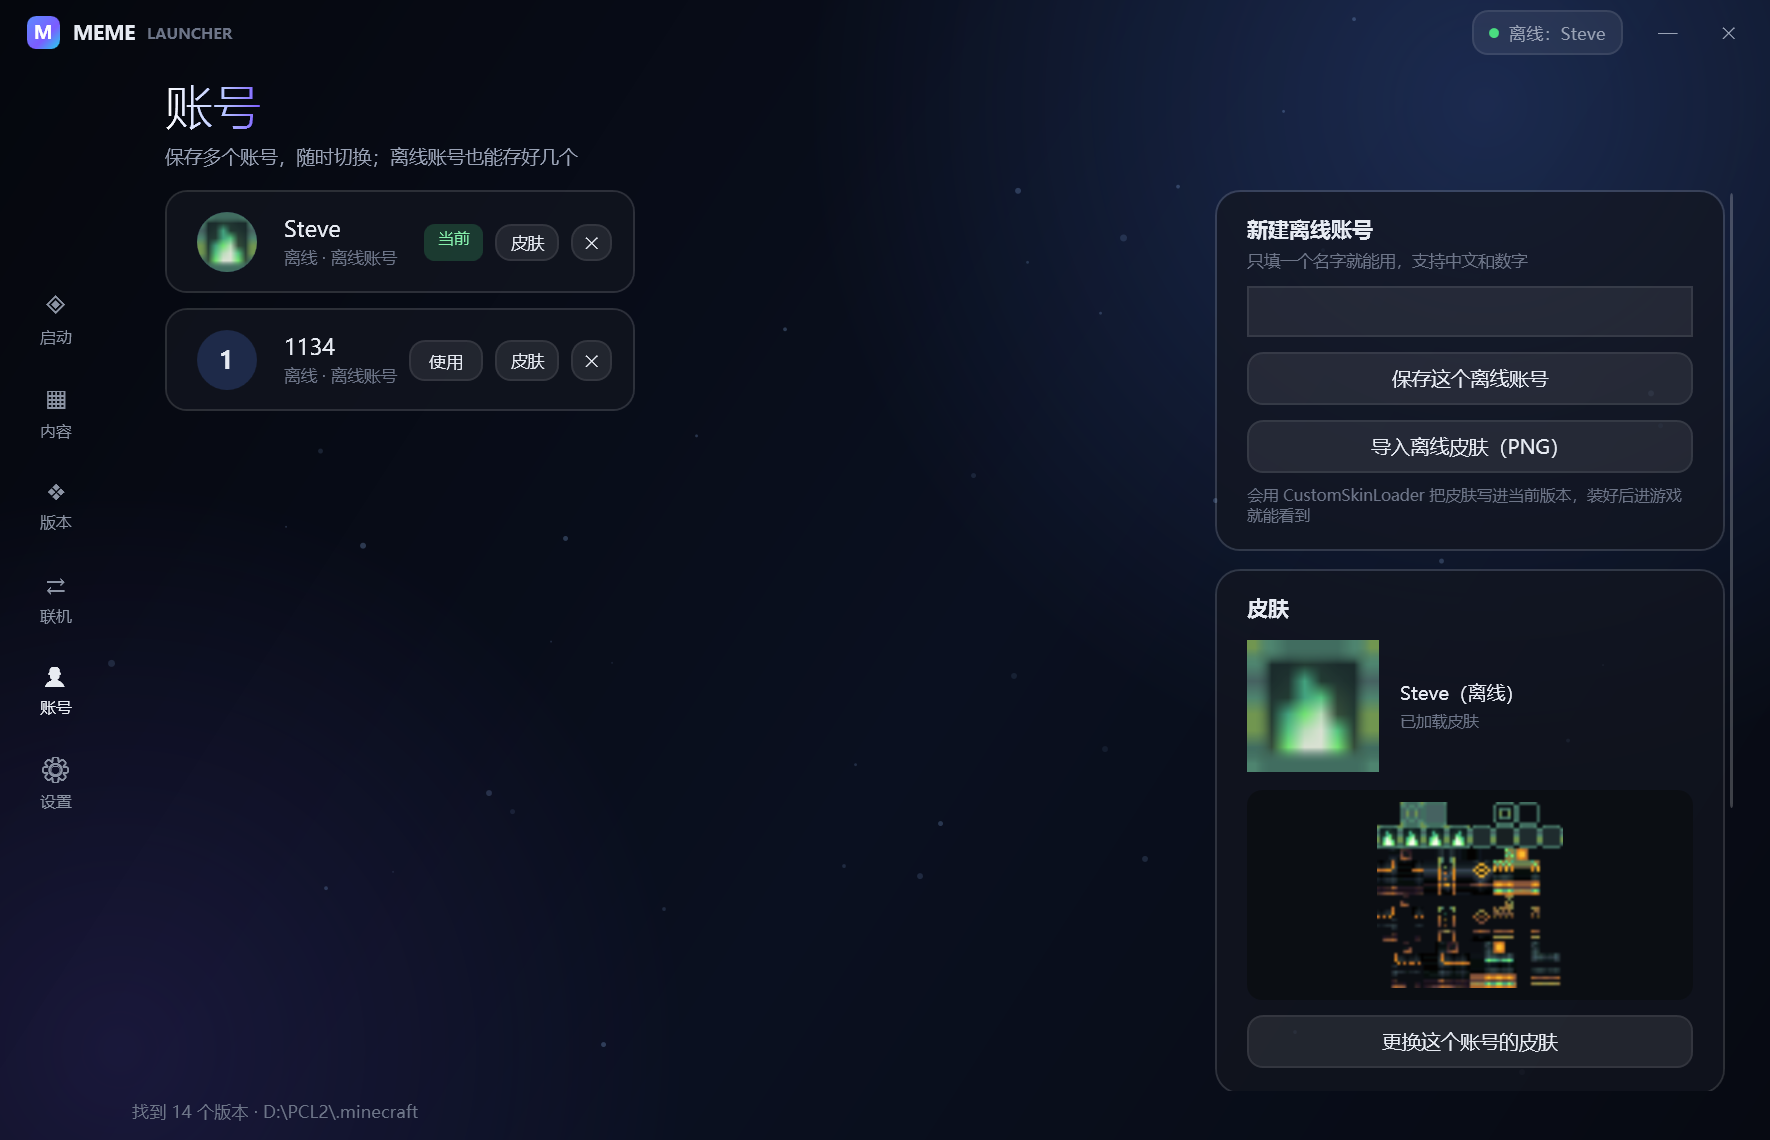
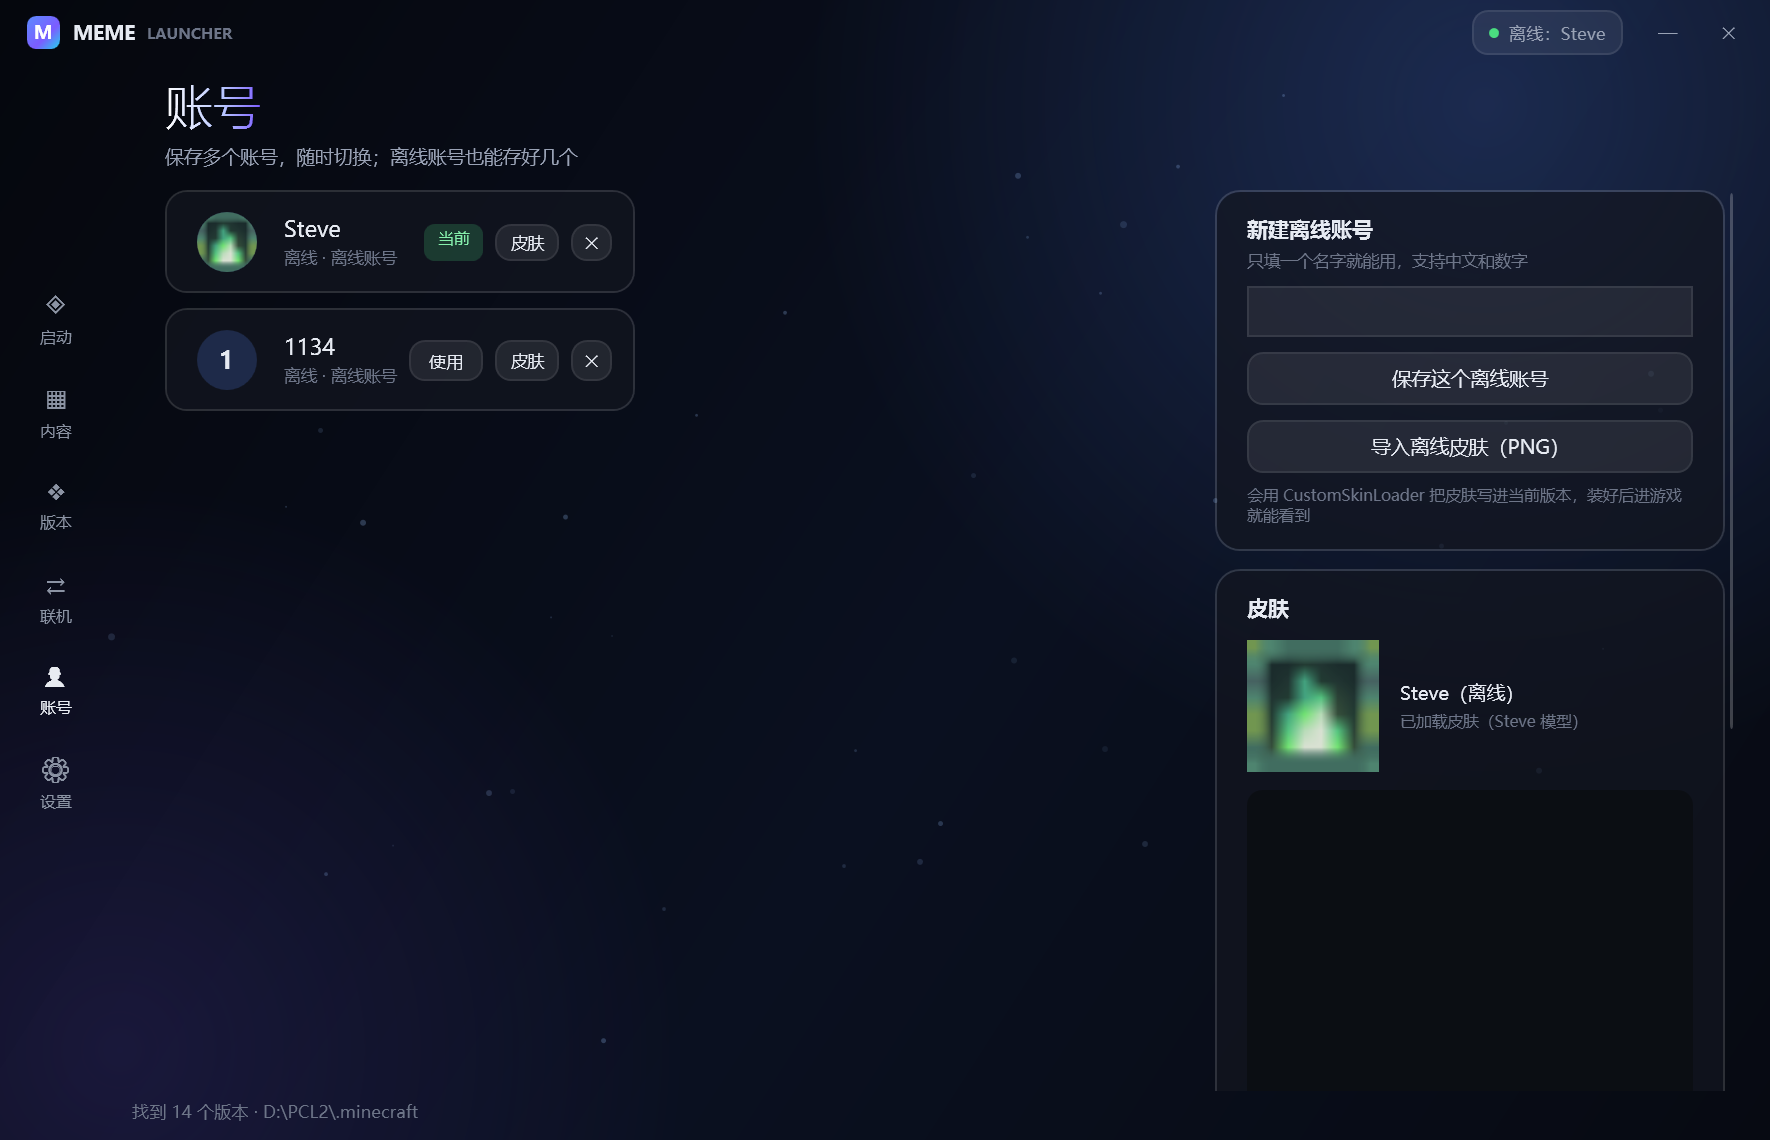
chore: 皮肤预览恢复平面图（3D 待修）；每个账号可单独换皮肤；安装进度进下载管理

Changed region(s): [[0.6836, 0.7061, 0.9633, 0.9518], [0.839, 0.614, 0.9011, 0.6447]]

diff --git a/src/Aurora.App/MainWindow.xaml b/src/Aurora.App/MainWindow.xaml
@@ -1280,9 +1280,15 @@
                                                            TextWrapping="Wrap"/>
                                             </StackPanel>
                                         </Grid>
-                                        <Border CornerRadius="10" Background="#0B0E13" Padding="8" Margin="0,12,0,0" Height="140">
+                                        <Border CornerRadius="10" Background="#0B0E13" Padding="8" Margin="0,12,0,0" Height="200">
                                             <Image x:Name="AccountSkinImage" Stretch="Uniform"/>
                                         </Border>
+                                        <StackPanel Orientation="Horizontal" Margin="0,10,0,0">
+                                            <Button Content="Steve（粗胳膊）" Visibility="Collapsed" Style="{StaticResource GlassButton}"
+                                                    Padding="12,5" FontSize="11" Tag="false" Click="OnSkinModelToggled"/>
+                                            <Button Content="Alex（细胳膊）" Visibility="Collapsed" Style="{StaticResource GlassButton}"
+                                                    Padding="12,5" FontSize="11" Margin="8,0,0,0" Tag="true" Click="OnSkinModelToggled"/>
+                                        </StackPanel>
                                         <Button Content="更换这个账号的皮肤" Style="{StaticResource GlassButton}" Margin="0,10,0,0"
                                                 Click="OnChangeSkinForCurrent"/>
                                     </StackPanel>

diff --git a/src/Aurora.App/SkinModel3D.cs b/src/Aurora.App/SkinModel3D.cs
@@ -1,0 +1,179 @@
+using System.Windows;
+using System.Windows.Media;
+using System.Windows.Media.Imaging;
+using System.Windows.Media.Media3D;
+
+namespace Aurora.App;
+
+/// <summary>
+/// 用 WPF 3D 拼一个方块小人来预览皮肤（Steve 粗胳膊 / Alex 细胳膊）。
+/// 没有皮肤时就是一个白色模型。
+/// </summary>
+internal static class SkinModel3D
+{
+    public static Model3DGroup Build(BitmapSource? skin, bool slim)
+    {
+        var group = new Model3DGroup();
+        var material = skin == null ? WhiteMaterial() : SkinMaterial(skin);
+
+        // 头 8x8x8（中心在 y=28..36）
+        group.Children.Add(Box(8, 8, 8, 0, 0, material, new[]
+        {
+            Rect(8, 8, 8, 8),   // front
+            Rect(16, 8, 8, 8),  // left
+            Rect(24, 8, 8, 8),  // back
+            Rect(0, 8, 8, 8),   // right
+            Rect(8, 0, 8, 8),   // top
+            Rect(16, 0, 8, 8),  // bottom
+        }));
+
+        // 身体 8x12x4
+        group.Children.Add(Box(8, 12, 4, 0, -10, material, new[]
+        {
+            Rect(20, 20, 8, 12),
+            Rect(28, 20, 8, 12),
+            Rect(32, 20, 8, 12),
+            Rect(16, 20, 4, 12),
+            Rect(20, 16, 8, 4),
+            Rect(28, 16, 8, 4),
+        }));
+
+        var armWidth = slim ? 3.0 : 4.0;
+        var armU = slim ? 44.0 : 44.0;
+
+        // 右臂
+        group.Children.Add(Box(armWidth, 12, 4, -4 - armWidth / 2, -10, material, new[]
+        {
+            Rect(armU, 20, armWidth, 12),
+            Rect(armU + armWidth, 20, 4, 12),
+            Rect(56, 20, armWidth, 12),
+            Rect(40, 20, 4, 12),
+            Rect(armU, 16, armWidth, 4),
+            Rect(armU + armWidth, 16, armWidth, 4),
+        }));
+
+        // 左臂（镜像，复用右臂贴图）
+        group.Children.Add(Box(armWidth, 12, 4, 4 + armWidth / 2, -10, material, new[]
+        {
+            Rect(armU, 20, armWidth, 12),
+            Rect(armU + armWidth, 20, 4, 12),
+            Rect(56, 20, armWidth, 12),
+            Rect(40, 20, 4, 12),
+            Rect(armU, 16, armWidth, 4),
+            Rect(armU + armWidth, 16, armWidth, 4),
+        }));
+
+        // 右腿
+        group.Children.Add(Box(4, 12, 4, -2, -22, material, new[]
+        {
+            Rect(4, 20, 4, 12),
+            Rect(8, 20, 4, 12),
+            Rect(12, 20, 4, 12),
+            Rect(0, 20, 4, 12),
+            Rect(4, 16, 4, 4),
+            Rect(8, 16, 4, 4),
+        }));
+
+        // 左腿
+        group.Children.Add(Box(4, 12, 4, 2, -22, material, new[]
+        {
+            Rect(20, 52, 4, 12),
+            Rect(24, 52, 4, 12),
+            Rect(28, 52, 4, 12),
+            Rect(16, 52, 4, 12),
+            Rect(20, 48, 4, 4),
+            Rect(24, 48, 4, 4),
+        }));
+
+        return group;
+    }
+
+    public static PerspectiveCamera Camera() => new()
+    {
+        Position = new Point3D(0, -12, 78),
+        LookDirection = new Vector3D(0, 0, -78),
+        UpDirection = new Vector3D(0, 1, 0),
+        FieldOfView = 30,
+    };
+
+    public static Model3DGroup Lights()
+    {
+        var group = new Model3DGroup();
+        group.Children.Add(new AmbientLight(Color.FromRgb(0x8A, 0x8A, 0x8A)));
+        group.Children.Add(new DirectionalLight(Color.FromRgb(0xFF, 0xFF, 0xFF), new Vector3D(-0.5, -0.6, -1)));
+        group.Children.Add(new DirectionalLight(Color.FromRgb(0x60, 0x60, 0x70), new Vector3D(0.7, 0.2, -0.4)));
+        return group;
+    }
+
+    private static Material WhiteMaterial()
+    {
+        var group = new MaterialGroup();
+        group.Children.Add(new DiffuseMaterial(new SolidColorBrush(Color.FromRgb(0xE8, 0xE8, 0xEE))));
+        return group;
+    }
+
+    private static MaterialGroup SkinMaterial(BitmapSource skin)
+    {
+        var brush = new ImageBrush(skin)
+        {
+            Stretch = Stretch.Fill,
+            ViewboxUnits = BrushMappingMode.Absolute,
+        };
+        brush.Freeze();
+
+        var group = new MaterialGroup();
+        group.Children.Add(new DiffuseMaterial(brush));
+        return group;
+    }
+
+    private static Rect Rect(double x, double y, double w, double h) => new(x, y, w, h);
+
+    /// <summary>一个长方体，faces 依次是 front/left/back/right/top/bottom 的皮肤区域（像素坐标）。</summary>
+    private static GeometryModel3D Box(double width, double height, double depth, double centerX, double centerY,
+        Material material, Rect[] faces)
+    {
+        var mesh = new MeshGeometry3D();
+        var hw = width / 2;
+        var hh = height / 2;
+        var hd = depth / 2;
+
+        // 顶点顺序：0-3 前面，4-7 左面，8-11 后面，12-15 右面，16-19 顶面，20-23 底面
+        AddFace(mesh, new Point3D(-hw, hh, hd), new Point3D(hw, hh, hd), new Point3D(hw, -hh, hd), new Point3D(-hw, -hh, hd), faces[0]);
+        AddFace(mesh, new Point3D(-hw, hh, -hd), new Point3D(-hw, hh, hd), new Point3D(-hw, -hh, hd), new Point3D(-hw, -hh, -hd), faces[1]);
+        AddFace(mesh, new Point3D(hw, hh, -hd), new Point3D(-hw, hh, -hd), new Point3D(-hw, -hh, -hd), new Point3D(hw, -hh, -hd), faces[2]);
+        AddFace(mesh, new Point3D(hw, hh, hd), new Point3D(hw, hh, -hd), new Point3D(hw, -hh, -hd), new Point3D(hw, -hh, hd), faces[3]);
+        AddFace(mesh, new Point3D(-hw, hh, -hd), new Point3D(hw, hh, -hd), new Point3D(hw, hh, hd), new Point3D(-hw, hh, hd), faces[4]);
+        AddFace(mesh, new Point3D(-hw, -hh, hd), new Point3D(hw, -hh, hd), new Point3D(hw, -hh, -hd), new Point3D(-hw, -hh, -hd), faces[5]);
+
+        mesh.Freeze();
+
+        var model = new GeometryModel3D(mesh, material);
+        var transform = new Transform3DGroup();
+        transform.Children.Add(new TranslateTransform3D(centerX, centerY, 0));
+        model.Transform = transform;
+
+        return model;
+    }
+
+    private static void AddFace(MeshGeometry3D mesh, Point3D a, Point3D b, Point3D c, Point3D d, Rect uv)
+    {
+        var index = mesh.Positions.Count;
+        mesh.Positions.Add(a);
+        mesh.Positions.Add(b);
+        mesh.Positions.Add(c);
+        mesh.Positions.Add(d);
+
+        mesh.TextureCoordinates.Add(new Point(uv.Left, uv.Top));
+        mesh.TextureCoordinates.Add(new Point(uv.Right, uv.Top));
+        mesh.TextureCoordinates.Add(new Point(uv.Right, uv.Bottom));
+        mesh.TextureCoordinates.Add(new Point(uv.Left, uv.Bottom));
+
+        // WPF 默认剔除背面，顶点顺序必须是逆时针
+        mesh.TriangleIndices.Add(index);
+        mesh.TriangleIndices.Add(index + 2);
+        mesh.TriangleIndices.Add(index + 1);
+        mesh.TriangleIndices.Add(index);
+        mesh.TriangleIndices.Add(index + 3);
+        mesh.TriangleIndices.Add(index + 2);
+    }
+}

diff --git a/src/Aurora.App/MainWindow.xaml.cs b/src/Aurora.App/MainWindow.xaml.cs
@@ -31,7 +31,7 @@ public partial class MainWindow : Window
     private List<RemoteVersion> _mcVersions = new();
     private ContentItem? _selectedContent;
     private CancellationTokenSource? _loginCts;
-    private const string AppVersion = "0.10.1";
+    private const string AppVersion = "0.10.2";
     private bool _updatesLoaded;
     private ReleaseInfo? _pendingRelease;
     private readonly SakuraFrp _tunnel = new();
@@ -3362,6 +3362,23 @@ public partial class MainWindow : Window
         }
     }
 
+    private BitmapSource? _skinBitmap;
+    private bool _skinSlim;
+
+    private void OnSkinModelToggled(object sender, RoutedEventArgs e)
+    {
+        _skinSlim = sender is FrameworkElement { Tag: "true" };
+        if (AccountSkinStatus != null)
+        {
+
+        }
+    }
+
+    private void UpdateSkinModel(BitmapSource? skin)
+    {
+        // 3D 预览暂时关闭，先用平面图
+    }
+
     private async void RefreshCurrentSkinPreview()
     {
         var account = _service.ActiveAccount;
@@ -3373,7 +3390,7 @@ public partial class MainWindow : Window
         AccountSkinName.Text = account.Name + "（" + account.TypeLabel + "）";
         AccountSkinStatus.Text = "读取皮肤…";
         AccountHeadImage.Source = null;
-        AccountSkinImage.Source = null;
+        _skinBitmap = null;
 
         try
         {
@@ -3394,12 +3411,16 @@ public partial class MainWindow : Window
                 AccountSkinStatus.Text = account.Type == "offline"
                     ? "还没有皮肤，可以点下面「导入离线皮肤」"
                     : "这个账号没有设置皮肤";
-                return;
+                        return;
             }
 
             AccountHeadImage.Source = SkinImage.Head(bytes, 88);
-            AccountSkinImage.Source = SkinImage.Full(bytes, 256);
-            AccountSkinStatus.Text = "已加载皮肤";
+            _skinBitmap = SkinImage.FromBytes(bytes);
+            if (AccountSkinImage != null)
+            {
+                AccountSkinImage.Source = SkinImage.Full(bytes, 256);
+            }
+                AccountSkinStatus.Text = "已加载皮肤";
         }
         catch (Exception ex)
         {

diff --git a/src/Aurora.App/SkinImage.cs b/src/Aurora.App/SkinImage.cs
@@ -52,6 +52,8 @@ internal static class SkinImage
         return Render(visual, (int)(frame.PixelWidth * scale), (int)(frame.PixelHeight * scale));
     }
 
+    public static BitmapSource? FromBytes(byte[] bytes) => Decode(bytes);
+
     private static BitmapFrame? Decode(byte[] bytes)
     {
         try
